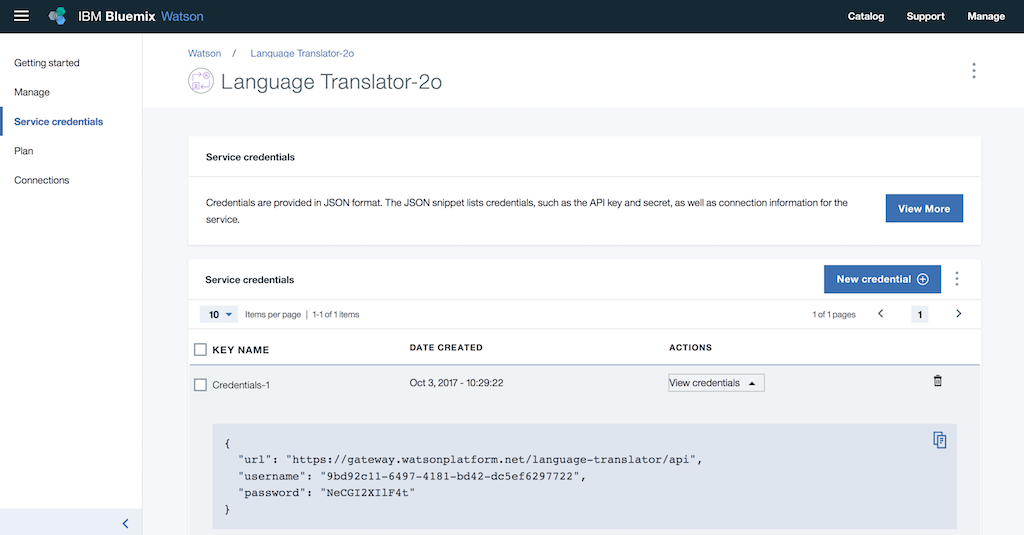
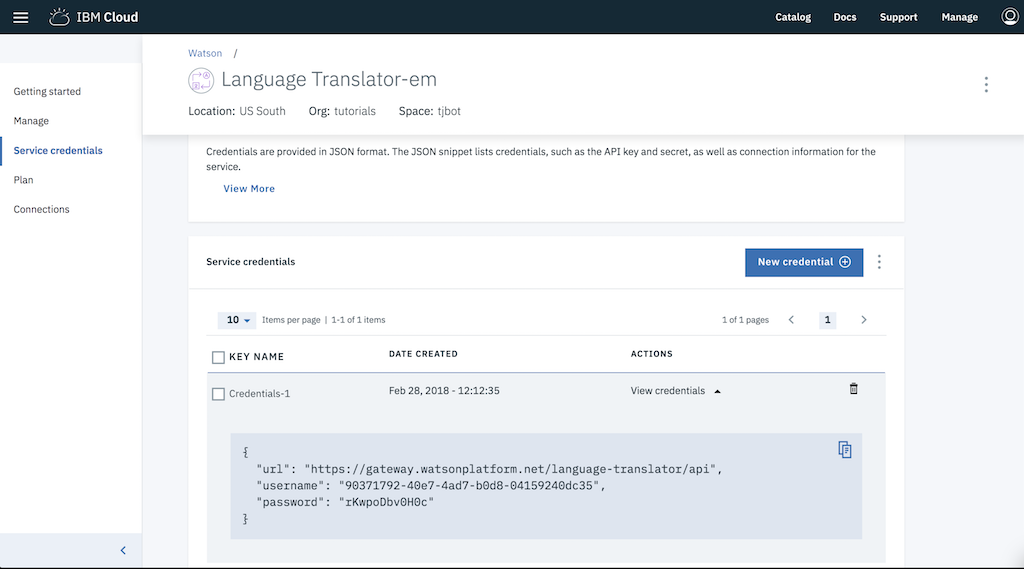
updated screenshots

diff --git a/tone-analyzer.md b/tone-analyzer.md
@@ -4,9 +4,9 @@ TJBot can analyze the emotion of text with the help of the [Watson Tone Analyzer
 
 ## Create a Watson Tone Analyzer service
 
-1. Sign up for an IBM Bluemix account at [bluemix.net](https://bluemix.net). If you already have an IBM Bluemix account, sign in.
+1. Sign up for an IBM Cloud account at [bluemix.net](https://bluemix.net). If you already have an IBM Cloud account, sign in.
 
-2. Click on the __Catalog__ link in the top right corner of the Bluemix dashboard.
+2. Click on the __Catalog__ link in the top right corner of the IBM Cloud dashboard.
 
 3. Select the __Language Translator__ service tile under the __Watson__ section of the catalog.
 
@@ -17,7 +17,7 @@ TJBot can analyze the emotion of text with the help of the [Watson Tone Analyzer
 
 	![](assets/sidebar-lt.png)
 	
-6. Click on __View Credentials__ to display the credentials. Copy the username and password credentials into the `.env` file in the simulator.
+6. Click on __View Credentials__ to display the credentials (note: if no credentials are listed, click on __New credential__ to create a new set). Copy the username and password credentials into the `.env` file in the simulator.
 
 	![](assets/servicecredentials-ta.png)
 	
@@ -44,7 +44,7 @@ For each step, REPLACE the placeholders `/* step ## */` with the suggested code.
 	/* step #4 */
 	```
 		
-1. Enable TJBot to use the LED hardware by adding the string `"led"` as an array element.
+2. Enable TJBot to use the LED hardware by adding the string `"led"` as an array element.
 	
 	```
 	var tj = new TJBot(
@@ -52,7 +52,7 @@ For each step, REPLACE the placeholders `/* step ## */` with the suggested code.
 	  {},
 	```
 			
-1. Configure the Watson Tone Analyzer credentials TJBot should use to analyze the tone. Earlier we stored them into an environment variable. 
+3. Configure the Watson Tone Analyzer credentials TJBot should use to analyze the tone. Earlier we stored them into an environment variable. 
 
 	```
 	  tone_analyzer: {
@@ -61,7 +61,7 @@ For each step, REPLACE the placeholders `/* step ## */` with the suggested code.
 	  }
 	```
 	
-1. We now have a TJBot configured to analyze the tone of content. Call the `analyzeTone` method with the content to analyze, `This is awesome!`. When TJBot analyzes the tones, a callback function will be passed the confidence scores. This code looks for the `emotion_tone` results and the tone with the highest scoring confidence. This emotion is then mapped to a color which the TJBot is instructed to shine it's light.
+4. We now have a TJBot configured to analyze the tone of content. Call the `analyzeTone` method with the content to analyze, `This is awesome!`. When TJBot analyzes the tones, a callback function will be passed the confidence scores. This code looks for the `emotion_tone` results and the tone with the highest scoring confidence. This emotion is then mapped to a color which the TJBot is instructed to shine it's light.
   
 	```
 	var text = "This is awesome!";
@@ -85,4 +85,4 @@ For each step, REPLACE the placeholders `/* step ## */` with the suggested code.
 	});	
 	```
 	
-1. Run the code by clicking on the play icon. Did TJBot analyze the emotion and shine it's light yellow? You've completed this challenge.
+5. Run the code by clicking on the play icon. Did TJBot analyze the emotion and shine it's light yellow? You've completed this challenge.

diff --git a/text-to-speech.md b/text-to-speech.md
@@ -4,9 +4,9 @@ TJBot can speak using the speaker and with the help of the [Watson Text to Speec
 
 ## Create a Watson Text to Speech service
 
-1. Sign up for an IBM Bluemix account at [bluemix.net](https://bluemix.net). If you already have an IBM Bluemix account, sign in.
+1. Sign up for an IBM Cloud account at [bluemix.net](https://bluemix.net). If you already have an IBM Cloud account, sign in.
 
-2. Click on the __Catalog__ link in the top right corner of the Bluemix dashboard.
+2. Click on the __Catalog__ link in the top right corner of the IBM Cloud dashboard.
 
 3. Select the __Text to Speech__ service tile under the __Watson__ section of the catalog.
 
@@ -18,11 +18,9 @@ TJBot can speak using the speaker and with the help of the [Watson Text to Speec
 
 	![](assets/sidebar-tts.png)
 	
-6. Click on __View Credentials__ to display the credentials. Copy the username and password credentials into the `.env` file in the simulator.
+6. Click on __View Credentials__ to display the credentials (note: if no credentials are listed, click on __New credential__ to create a new set). Copy the username and password credentials into the `.env` file in the simulator.
 
 	![](assets/servicecredentials-tts.png)
-	
-.env file
 
 ```
 TEXT_TO_SPEECH_USERNAME=
@@ -54,7 +52,7 @@ For each step, REPLACE the placeholders `/* step ## */` with the suggested code.
 	/* step #6 */
 	```
 
-1. Enable TJBot to use the speaker hardware by adding the string `"speaker"` as an array element.
+2. Enable TJBot to use the speaker hardware by adding the string `"speaker"` as an array element.
 	
 	```
 	var tj = new TJBot(
@@ -64,7 +62,7 @@ For each step, REPLACE the placeholders `/* step ## */` with the suggested code.
 	...
 	```
 	
-1. Give the TJBot a gender, `male` or `female`. This will determine the gender of the voice used to synthesize the text.
+3. Give the TJBot a gender, `male` or `female`. This will determine the gender of the voice used to synthesize the text.
 
 	```
 	...
@@ -74,7 +72,7 @@ For each step, REPLACE the placeholders `/* step ## */` with the suggested code.
 	...
 	```	    
 
-1. Configure the language TJBot should speak. In this challenge, use `en-US`
+4. Configure the language TJBot should speak. In this challenge, use `en-US`
 
 	```
 	    speak: {
@@ -82,7 +80,7 @@ For each step, REPLACE the placeholders `/* step ## */` with the suggested code.
 	    }
 	```
 	
-1. Configure the Watson Text to Speech credentials TJBot should use to speak. Earlier we stored them into an environment variable. 
+5. Configure the Watson Text to Speech credentials TJBot should use to speak. Earlier we stored them into an environment variable. 
 
 	```
 	  text_to_speech: {
@@ -91,10 +89,10 @@ For each step, REPLACE the placeholders `/* step ## */` with the suggested code.
 	  }
 	```
 	
-1. We now have a TJBot configured to speak. Call the `speak` method and have it say `Hello`.
+6. We now have a TJBot configured to speak. Call the `speak` method and have it say `Hello`.
 
 	```
 	tj.speak("Hello");	
 	```
 	
-1. Run the code by clicking on the play icon. Did TJBot say hello? You've completed this challenge.
+7. Run the code by clicking on the play icon. Did TJBot say hello? You've completed this challenge.

diff --git a/visual-recognition.md b/visual-recognition.md
@@ -4,9 +4,9 @@ TJBot can recognize objects and colors in an image with the help of the [Watson 
 
 ## Create a Watson Visual Recognition service
 
-1. Sign up for an IBM Bluemix account at [bluemix.net](https://bluemix.net). If you already have an IBM Bluemix account, sign in.
+1. Sign up for an IBM Cloud account at [bluemix.net](https://bluemix.net). If you already have an IBM Cloud account, sign in.
 
-2. Click on the __Catalog__ link in the top right corner of the Bluemix dashboard.
+2. Click on the __Catalog__ link in the top right corner of the IBM Cloud dashboard.
 
 3. Select the __Visual Recognition__ service tile under the __Watson__ section of the catalog.
 
@@ -17,7 +17,7 @@ TJBot can recognize objects and colors in an image with the help of the [Watson 
 
 	![](assets/sidebar-stt.png)
 	
-6. Click on __View Credentials__ to display the credentials. Copy the api_key credential into the `.env` file in the simulator.
+6. Click on __View Credentials__ to display the credentials (note: if no credentials are listed, click on __New credential__ to create a new set). Copy the api_key credential into the `.env` file in the simulator.
 
 	![](assets/servicecredentials-vr.png)
 	
@@ -43,7 +43,7 @@ For each step, REPLACE the placeholders `/* step ## */` with the suggested code.
 	/* step #4 */
 	```
 		
-1. Enable TJBot to use the camera hardware by adding the string `"camera"` as an array element.
+2. Enable TJBot to use the camera hardware by adding the string `"camera"` as an array element.
 	
 	```
 	var tj = new TJBot(
@@ -51,7 +51,7 @@ For each step, REPLACE the placeholders `/* step ## */` with the suggested code.
 	  {},
 	```
 			
-1. Configure the Watson Visual Recognition credentials TJBot should use to classify the image. Earlier we stored them into an environment variable. 
+3. Configure the Watson Visual Recognition credentials TJBot should use to classify the image. Earlier we stored them into an environment variable. 
 
 	```
 	  visual_recognition: {
@@ -59,7 +59,7 @@ For each step, REPLACE the placeholders `/* step ## */` with the suggested code.
 	  }
 	```
 	
-1. We now have a TJBot configured to recognize objects. Call the `see` method. This will use the webcam, capture a picture, and classify it with the Watson Visual Recogntion service. A callback function will be passed an array of objects and confidence scores.
+4. We now have a TJBot configured to recognize objects. Call the `see` method. This will use the webcam, capture a picture, and classify it with the Watson Visual Recogntion service. A callback function will be passed an array of objects and confidence scores.
 
 	```
 	tj.see(objects => {
@@ -67,4 +67,4 @@ For each step, REPLACE the placeholders `/* step ## */` with the suggested code.
 	});
 	```
 	
-1. Run the code by clicking on the play icon. Did TJBot recognize objects and colors, and output the results into the console? You've completed this challenge.
+5. Run the code by clicking on the play icon. Did TJBot recognize objects and colors, and output the results into the console? You've completed this challenge.

diff --git a/speech-to-text.md b/speech-to-text.md
@@ -4,9 +4,9 @@ TJBot can listen using the microphone and with the help of the [Watson Speech to
 
 ## Create a Watson Speech to Text service
 
-1. Sign up for an IBM Bluemix account at [bluemix.net](https://bluemix.net). If you already have an IBM Bluemix account, sign in.
+1. Sign up for an IBM Cloud account at [bluemix.net](https://bluemix.net). If you already have an IBM Cloud account, sign in.
 
-2. Click on the __Catalog__ link in the top right corner of the Bluemix dashboard.
+2. Click on the __Catalog__ link in the top right corner of the IBM Cloud dashboard.
 
 3. Select the __Speech to Text__ service tile under the __Watson__ section of the catalog.
 
@@ -17,7 +17,7 @@ TJBot can listen using the microphone and with the help of the [Watson Speech to
 
 	![](assets/sidebar-tts.png)
 	
-6. Click on __View Credentials__ to display the credentials. Copy the username and password credentials into the `.env` file in the simulator.
+6. Click on __View Credentials__ to display the credentials (note: if no credentials are listed, click on __New credential__ to create a new set). Copy the username and password credentials into the `.env` file in the simulator.
 
 	![](assets/servicecredentials-stt.png)
 	
@@ -44,7 +44,7 @@ For each step, REPLACE the placeholders `/* step ## */` with the suggested code.
 	/* step #4 */
 	```
 
-1. Enable TJBot to use the microphone hardware by adding the string `"microphone"` as an array element.
+2. Enable TJBot to use the microphone hardware by adding the string `"microphone"` as an array element.
 	
 	```
 	var tj = new TJBot(
@@ -53,7 +53,7 @@ For each step, REPLACE the placeholders `/* step ## */` with the suggested code.
 	...
 	```
 		
-1. Configure the Watson Speech to Text credentials TJBot should use to listen. Earlier we stored them into an environment variable. 
+3. Configure the Watson Speech to Text credentials TJBot should use to listen. Earlier we stored them into an environment variable. 
 
 	```
 	    speech_to_text: {
@@ -62,7 +62,7 @@ For each step, REPLACE the placeholders `/* step ## */` with the suggested code.
 	    }
 	```
 	
-1. We now have a TJBot configured to listen. Call the `listen` method. When TJBot transcribes text, a callback function will be passed the text TJBot heard. Call stopListening after the first utterance is heard.
+4. We now have a TJBot configured to listen. Call the `listen` method. When TJBot transcribes text, a callback function will be passed the text TJBot heard. Call stopListening after the first utterance is heard.
 
 	```
 	tj.listen((text) => {
@@ -71,4 +71,4 @@ For each step, REPLACE the placeholders `/* step ## */` with the suggested code.
 	});
 	```
 	
-1. Run the code by clicking on the play icon. Did TJBot listen and output the text into the console? You've completed this challenge.
+5. Run the code by clicking on the play icon. Did TJBot listen and output the text into the console? You've completed this challenge.

diff --git a/language-translator.md b/language-translator.md
@@ -4,9 +4,9 @@ TJBot can translate content with the help of the [Watson Language Translator Ser
 
 ## Create a Watson Language Translator service
 
-1. Sign up for an IBM Bluemix account at [bluemix.net](https://bluemix.net). If you already have an IBM Bluemix account, sign in.
+1. Sign up for an IBM Cloud account at [bluemix.net](https://bluemix.net). If you already have an IBM Cloud account, sign in.
 
-2. Click on the __Catalog__ link in the top right corner of the Bluemix dashboard.
+2. Click on the __Catalog__ link in the top right corner of the IBM Cloud dashboard.
 
 3. Select the __Language Translator__ service tile under the __Watson__ section of the catalog.
 
@@ -17,7 +17,7 @@ TJBot can translate content with the help of the [Watson Language Translator Ser
 
 	![](assets/sidebar-lt.png)
 	
-6. Click on __View Credentials__ to display the credentials. Copy the username and password credentials into the `.env` file in the simulator.
+6. Click on __View Credentials__ to display the credentials (note: if no credentials are listed, click on __New credential__ to create a new set). Copy the username and password credentials into the `.env` file in the simulator.
 
 	![](assets/servicecredentials-lt.png)
 	
@@ -40,7 +40,7 @@ For each step, REPLACE the placeholders `/* step ## */` with the suggested code.
 	/* step #3 */
 	```
 		
-1. Configure the Watson Language Translator credentials TJBot should use to listen. Earlier we stored them into an environment variable. 
+2. Configure the Watson Language Translator credentials TJBot should use to listen. Earlier we stored them into an environment variable. 
 
 	```
 	  language_translator: {
@@ -49,7 +49,7 @@ For each step, REPLACE the placeholders `/* step ## */` with the suggested code.
 	  }
 	```
 	
-1. We now have a TJBot configured to translate content. Call the `translate` method with the content and source and destination language codes. When TJBot translates the text, a callback function will be passed the text TJBot translated. 
+3. We now have a TJBot configured to translate content. Call the `translate` method with the content and source and destination language codes. When TJBot translates the text, a callback function will be passed the text TJBot translated. 
 
 	```
 	tj.translate("Hello", "en", "fr")
@@ -58,4 +58,4 @@ For each step, REPLACE the placeholders `/* step ## */` with the suggested code.
 	  });
 	```
 	
-1. Run the code by clicking on the play icon. Did TJBot translate the content and output the text into the console? You've completed this challenge.
+4. Run the code by clicking on the play icon. Did TJBot translate the content and output the text into the console? You've completed this challenge.

diff --git a/README.md b/README.md
@@ -8,9 +8,7 @@ The following challenges demonstrate the basic capabilities the TJBot offers. Co
 * [Speech to Text](speech-to-text.md)
 * [Visual Recognition](visual-recognition.md)
 
-Access the TJBot simulator at [ibm.biz/meet-tjbot](https://ibm.biz/meet-tjbot)
-
-Please keep in mind the simulated TJBot is a simulated Node.js environment. Code is executed in the browser, except for API calls which are proxied via an IBM Bluemix application. API credentials are not stored in this proxy.
+Please keep in mind the simulated TJBot is a simulated Node.js environment. Code is executed in the browser, except for API calls which are proxied via an IBM Cloud application. API credentials are not stored in this proxy.
 
 Feel free to complete more than one of these challenges, even combining them together. Here are some things to keep in mind.
 
